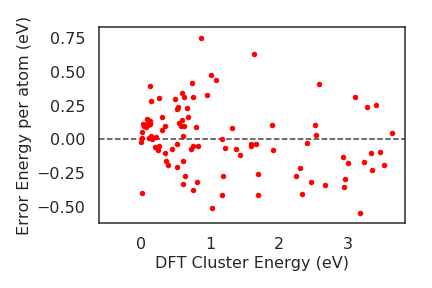
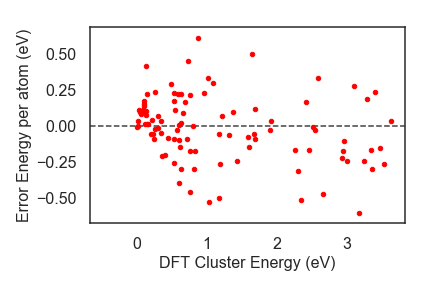
updated model

diff --git a/v1/Ea.py b/v1/Ea.py
@@ -51,7 +51,7 @@ read adsoprtion energy and barder charge from a csv file
 data = pd.read_csv('Ea_data.csv', header = 0)
 
 metal = np.array(data['Metal'])
-Ec = np.array(data['Ec'])
+Ec = np.array(data['Ec_DFT'])
 Ebind = np.array(data['Ebind'])
 Ea = np.array(data['Ea'])
 
@@ -77,7 +77,7 @@ fit_int_flag = False # Not fitting for intercept, as the first coefficient is th
 terms = ['$b_0$', '$E_c$', '$E_{bind}$', r'$\frac{E_{bind}}{E_c}$', r'$\frac{E_c}{E_{bind}}$', r'$E_c^2$', '$E_cE_{bind}$', r'$\frac{E_c^2}{E_{bind}}$', '$E_{bind}^2$', r'$\frac{E_{bind}^2}{E_c}$', r'$\frac{E_{bind}^2}{E_c^2}$', r'$\frac{E_c^2}{E_{bind}^2}$']
 #%% Preparation before regression
 # Train test split, save 10% of data point to the test set
-X_train, X_test, y_train, y_test, X_init_train, X_init_test = train_test_split(X, y, X_init, test_size=0.25, random_state=0)
+X_train, X_test, y_train, y_test, X_init_train, X_init_test = train_test_split(X, y, X_init, test_size=0.2, random_state=0)
                     
                     
 # The alpha grid used for plotting path
@@ -360,46 +360,39 @@ OLS_coefs_unnormailized[1:] = OLS_coefs[1:]/sv
 OLS_coefs_unnormailized[0] = OLS_coefs[0] - np.sum(mv/sv*OLS_coefs[1:])
 #%%
 '''
-Univerisal scaling relation
+Univerisal scaling model, fit Ebind^2/Ec vs Ea
 '''
-model_name = 'USR'
+model_name = 'USM'
 output_dir = os.path.join(base_dir, model_name)
 if not os.path.exists(output_dir): os.makedirs(output_dir)    
-u0= -0.1477 #intercept
-u1 = 0.6185 # the coefficient
 
-def USR(X_init):
-
-    Ebind = X_init[:,1]
-    Ec = X_init[:,0]
-    Ea = Ebind**2/Ec *u1 + u0
-    
-    return Ea
-
-USR_coefs = np.zeros(12)
-
-'''
-Need to scale USM coef in the same
-'''
-USR_coefs[0] = u0 + mv[-3] * sv[3]
-USR_coefs[-3] = u1*sv[-3]
-
-
-X_USR_test = X_init_test[:,0:2]
-X_USR_train = X_init_train[:,0:2]
-X_USR = X_init[:,0:2]
+USM = linear_model.LinearRegression(fit_intercept=fit_int_flag)
+term_index = 9
+X_USM_test = X_test[:,[0,term_index]]
+X_USM_train = X_train[:,[0,term_index]]
+X_USM = X[:,[0,term_index]]
+USM.fit(X_USM_train,y_train) 
+USM_coefs = np.zeros(12)
+USM_coefs[[0,term_index]] = USM.coef_
 
 # Access the errors 
-y_predict_test = USR(X_USR_test)
-y_predict_train = USR(X_USR_train)
-USR_r2_train = r2_score(y_train, y_predict_train)
+y_predict_test = USM.predict(X_USM_test)
+y_predict_train = USM.predict(X_USM_train)
+USM_r2_train = r2_score(y_train, y_predict_train)
 
 
-USR_RMSE_test = np.sqrt(mean_squared_error(y_test, y_predict_test))
-USR_RMSE_train = np.sqrt(mean_squared_error(y_train, y_predict_train))
-USR_RMSE, USR_r2 =rtools.parity_plot(y, USR(X_USR), model_name, output_dir)
-#USR_sigma = rtools.error_distribution(y, USR(X_USR), model_name)
-#USR_RMSE, USR_r2 = rtools.cal_performance(X, y, LM1)
+USM_RMSE_test = np.sqrt(mean_squared_error(y_test, y_predict_test))
+USM_RMSE_train = np.sqrt(mean_squared_error(y_train, y_predict_train))
+USM_RMSE, USM_r2 =rtools.parity_plot(y, USM.predict(X_USM), model_name, output_dir)
+rtools.plot_coef(USM_coefs, terms, model_name, output_dir)
+
+# the unnormalized coefficients
+USM_coefs_unnormailized = np.zeros(len(terms))
+USM_coefs_unnormailized[1:] = USM_coefs[1:]/sv
+USM_coefs_unnormailized[0] = USM_coefs[0] - np.sum(mv/sv*USM_coefs[1:])
+u0= USM_coefs_unnormailized[0] #intercept
+u1 = USM_coefs_unnormailized[term_index] # the coefficient
+
 
 
 #%%
@@ -412,8 +405,8 @@ if not os.path.exists(output_dir): os.makedirs(output_dir)
 
 fig, ax = plt.subplots(figsize=(7, 7))
 
-ax.scatter(y, enet_min.predict(X), label='Elastic Net ($R^2$ = 0.969)', facecolors='r', alpha = 0.7, s  = 60)
-ax.scatter(y, USR(X_USR), label='USM ($R^2$ = 0.964)', facecolors='b', marker="o", alpha = 0.7, s  = 60)
+ax.scatter(y, enet_min.predict(X), label='Elastic Net ($R^2$ =' + str(np.around(enet_min_r2_train, decimals = 3)) +' )', facecolors='r', alpha = 0.7, s  = 60)
+ax.scatter(y, USM.predict(X_USM), label='USM ($R^2$ ='+str(np.around(USM_r2, decimals = 3)) +' )', facecolors='b', marker="o", alpha = 0.7, s  = 60)
 ax.plot([y.min(), y.max()], [y.min(), y.max()], 'k--', lw=2)
 ax.set_xticks(np.arange(0,4,0.5))
 ax.set_xlabel('DFT-Calculated (eV)')
@@ -428,15 +421,17 @@ fig.savefig(os.path.join(output_dir, model_name + '_performance.png'))
 Compare different regression method
 '''
 
-# regression_method = [ 'USM',  'LASSO', 'Elastic Net', 'Ridge', 'OLS']
-regression_method = [ 'LASSO', 'Elastic Net', 'Ridge', 'OLS']
+regression_method = [ 'USM',  'LASSO', 'Elastic Net', 'Ridge', 'OLS']
+#regression_method = [ 'LASSO', 'Elastic Net', 'Ridge', 'OLS']
 n_method = len(regression_method)
 
-#means_test = np.array([ USR_RMSE_test,  lasso_RMSE_test, enet_min_RMSE_test, ridge_RMSE_test, OLS_RMSE_test])
-means_test = np.array([ lasso_RMSE_test, enet_min_RMSE_test, ridge_RMSE_test, OLS_RMSE_test])
-#r2s = np.array([ USR_r2_train,  lasso_r2_train, enet_min_r2_train, ridge_r2_train, OLS_r2_train])
+means_test = np.array([ USM_RMSE_test,  lasso_RMSE_test, enet_min_RMSE_test, ridge_RMSE_test, OLS_RMSE_test])
+r2s = np.array([ USM_r2_train,  lasso_r2_train, enet_min_r2_train, ridge_r2_train, OLS_r2_train])
 
-r2s = np.array([  lasso_r2_train, enet_min_r2_train, ridge_r2_train, OLS_r2_train])
+#means_test = np.array([ lasso_RMSE_test, enet_min_RMSE_test, ridge_RMSE_test, OLS_RMSE_test])
+#r2s = np.array([  lasso_r2_train, enet_min_r2_train, ridge_r2_train, OLS_r2_train])
+
+
 #x_pos = np.arange(len(regression_method))
 x_pos = np.arange(len(regression_method))
 base_line = 0
@@ -459,11 +454,11 @@ ax1.set_xlabel('Predictive Models')
 #plt.legend(loc= 'best', frameon=False)
 
 ax1.set_ylabel('Testing RMSE (eV)', color = 'r')
-ax1.set_ylim([0, 0.4])
+ax1.set_ylim([0, 0.3])
 ax1.tick_params('y', colors='r')
 
 ax2.set_ylabel('Training $R^2$',color = 'b')
-ax2.set_ylim([0, 1])
+ax2.set_ylim([0.9, 1])
 ax2.tick_params('y', colors='b')
 fig.savefig(os.path.join(output_dir, model_name + '_parity.png'))
 
@@ -472,8 +467,8 @@ fig.savefig(os.path.join(output_dir, model_name + '_parity.png'))
 Compare the coefficients across different models
 '''
 
-#coef_matrix = np.array([USR_coefs, lasso_coefs, enet_min_coefs, ridge_coefs, OLS_coefs] )
-coef_matrix = np.array([lasso_coefs, enet_min_coefs, ridge_coefs, OLS_coefs] )
+coef_matrix = np.array([USM_coefs, lasso_coefs, enet_min_coefs, ridge_coefs, OLS_coefs] )
+#coef_matrix = np.array([lasso_coefs, enet_min_coefs, ridge_coefs, OLS_coefs] )
 # Set up the matplotlib figure
 fig, ax = plt.subplots(figsize=(16, 4))
 # Generate a custom diverging colormap
@@ -496,6 +491,6 @@ fig.savefig(os.path.join(output_dir, model_name + '_coef_heatmap.png'))
 '''
 Save the coefficients into a csv file
 '''
-coefs = np.array([lasso_coefs, lasso_coefs_unnormailized, enet_min_coefs, enet_min_coefs_unnormailized, ridge_coefs, ridge_coefs_unnormailized,  OLS_coefs, OLS_coefs_unnormailized])
-df_coefs = pd.DataFrame(coefs.T, columns = ['LASSO', 'LASSO', 'Elastic Net', 'Elastic Net', 'Ridge', 'Ridge', 'OLS', 'OLS'])
+coefs = np.array([USM_coefs, USM_coefs_unnormailized, lasso_coefs, lasso_coefs_unnormailized, enet_min_coefs, enet_min_coefs_unnormailized, ridge_coefs, ridge_coefs_unnormailized,  OLS_coefs, OLS_coefs_unnormailized])
+df_coefs = pd.DataFrame(coefs.T, columns = ['USM', 'USM', 'LASSO', 'LASSO', 'Elastic Net', 'Elastic Net', 'Ridge', 'Ridge', 'OLS', 'OLS'])
 df_coefs.to_csv('Stability.csv')
